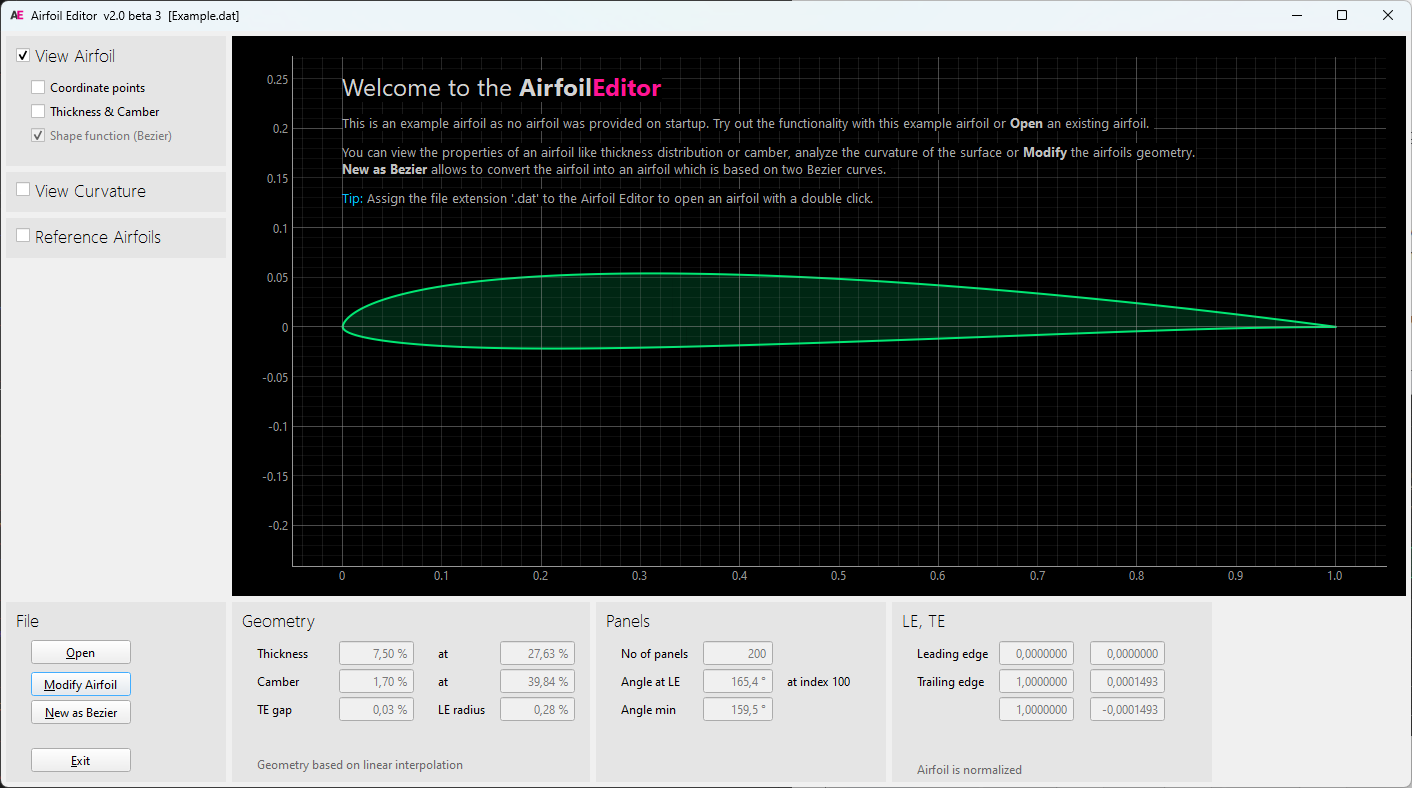
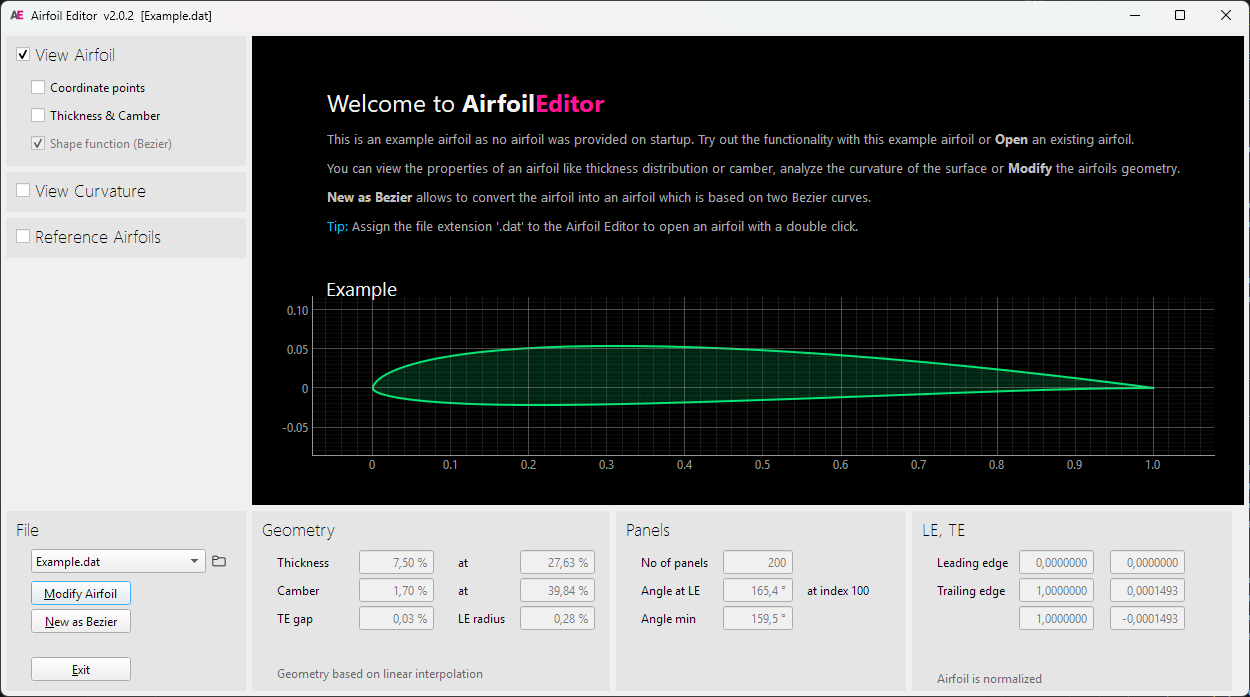
Squashed 'AirfoilEditor_subtree/' changes from 4368244..58b9c6c
58b9c6c typos

git-subtree-dir: AirfoilEditor_subtree
git-subtree-split: 58b9c6ce4e91e49a3d4f0b5cbdfaaab123a8360b

diff --git a/modules/base/panels.py b/modules/base/panels.py
@@ -430,6 +430,16 @@ class MessageBox (QMessageBox):
 # ------------ Dialog  -----------------------------------
 
 class Dialog (QDialog):
+    """
+    Abstract super class for modal top windows with action buttons at bottom.
+    Extends QDialog with a dataObject (via 'getter') and common background
+
+    Args:
+        QDialog (_type_): _description_
+
+    Returns:
+        _type_: _description_
+    """
 
     name = "Dialog"             # will be title 
 

diff --git a/modules/base/widgets.py b/modules/base/widgets.py
@@ -220,7 +220,8 @@ def set_background (aWidget : QWidget,
 class Widget:
     """
     Extends QtWidgets to get an "access path" usage of widgets
-    where a widget 'get' and 'set' its data by itself.
+        where a widget 'get' and 'set' its data by itself
+        or by property with 'obj' and 'prop'
 
     A widgets add itsself to a 'QLayout' 
 

diff --git a/AirfoilEditor.py b/AirfoilEditor.py
@@ -60,7 +60,7 @@ logger.setLevel(logging.DEBUG)
 # ------ globals -----
 
 AppName    = "Airfoil Editor"
-AppVersion = "2.0.1"
+AppVersion = "2.0.2"
 
 
 class App_Main (QMainWindow):

diff --git a/README.md b/README.md
@@ -8,7 +8,7 @@ The AirfoilEditor is on one hand a fast airfoil viewer and on the other hand a p
 
 Main features:  
 
-* View an air foil and browse through the airfoils of its subdirectory
+* View an airfoil and browse through the airfoils of its subdirectory
 * View the curvature of the airfoil surface
 * Repanel and normalize the airfoil
 * Modify the geometry parameters thickness, camber, its high points, trailing edge gap  
